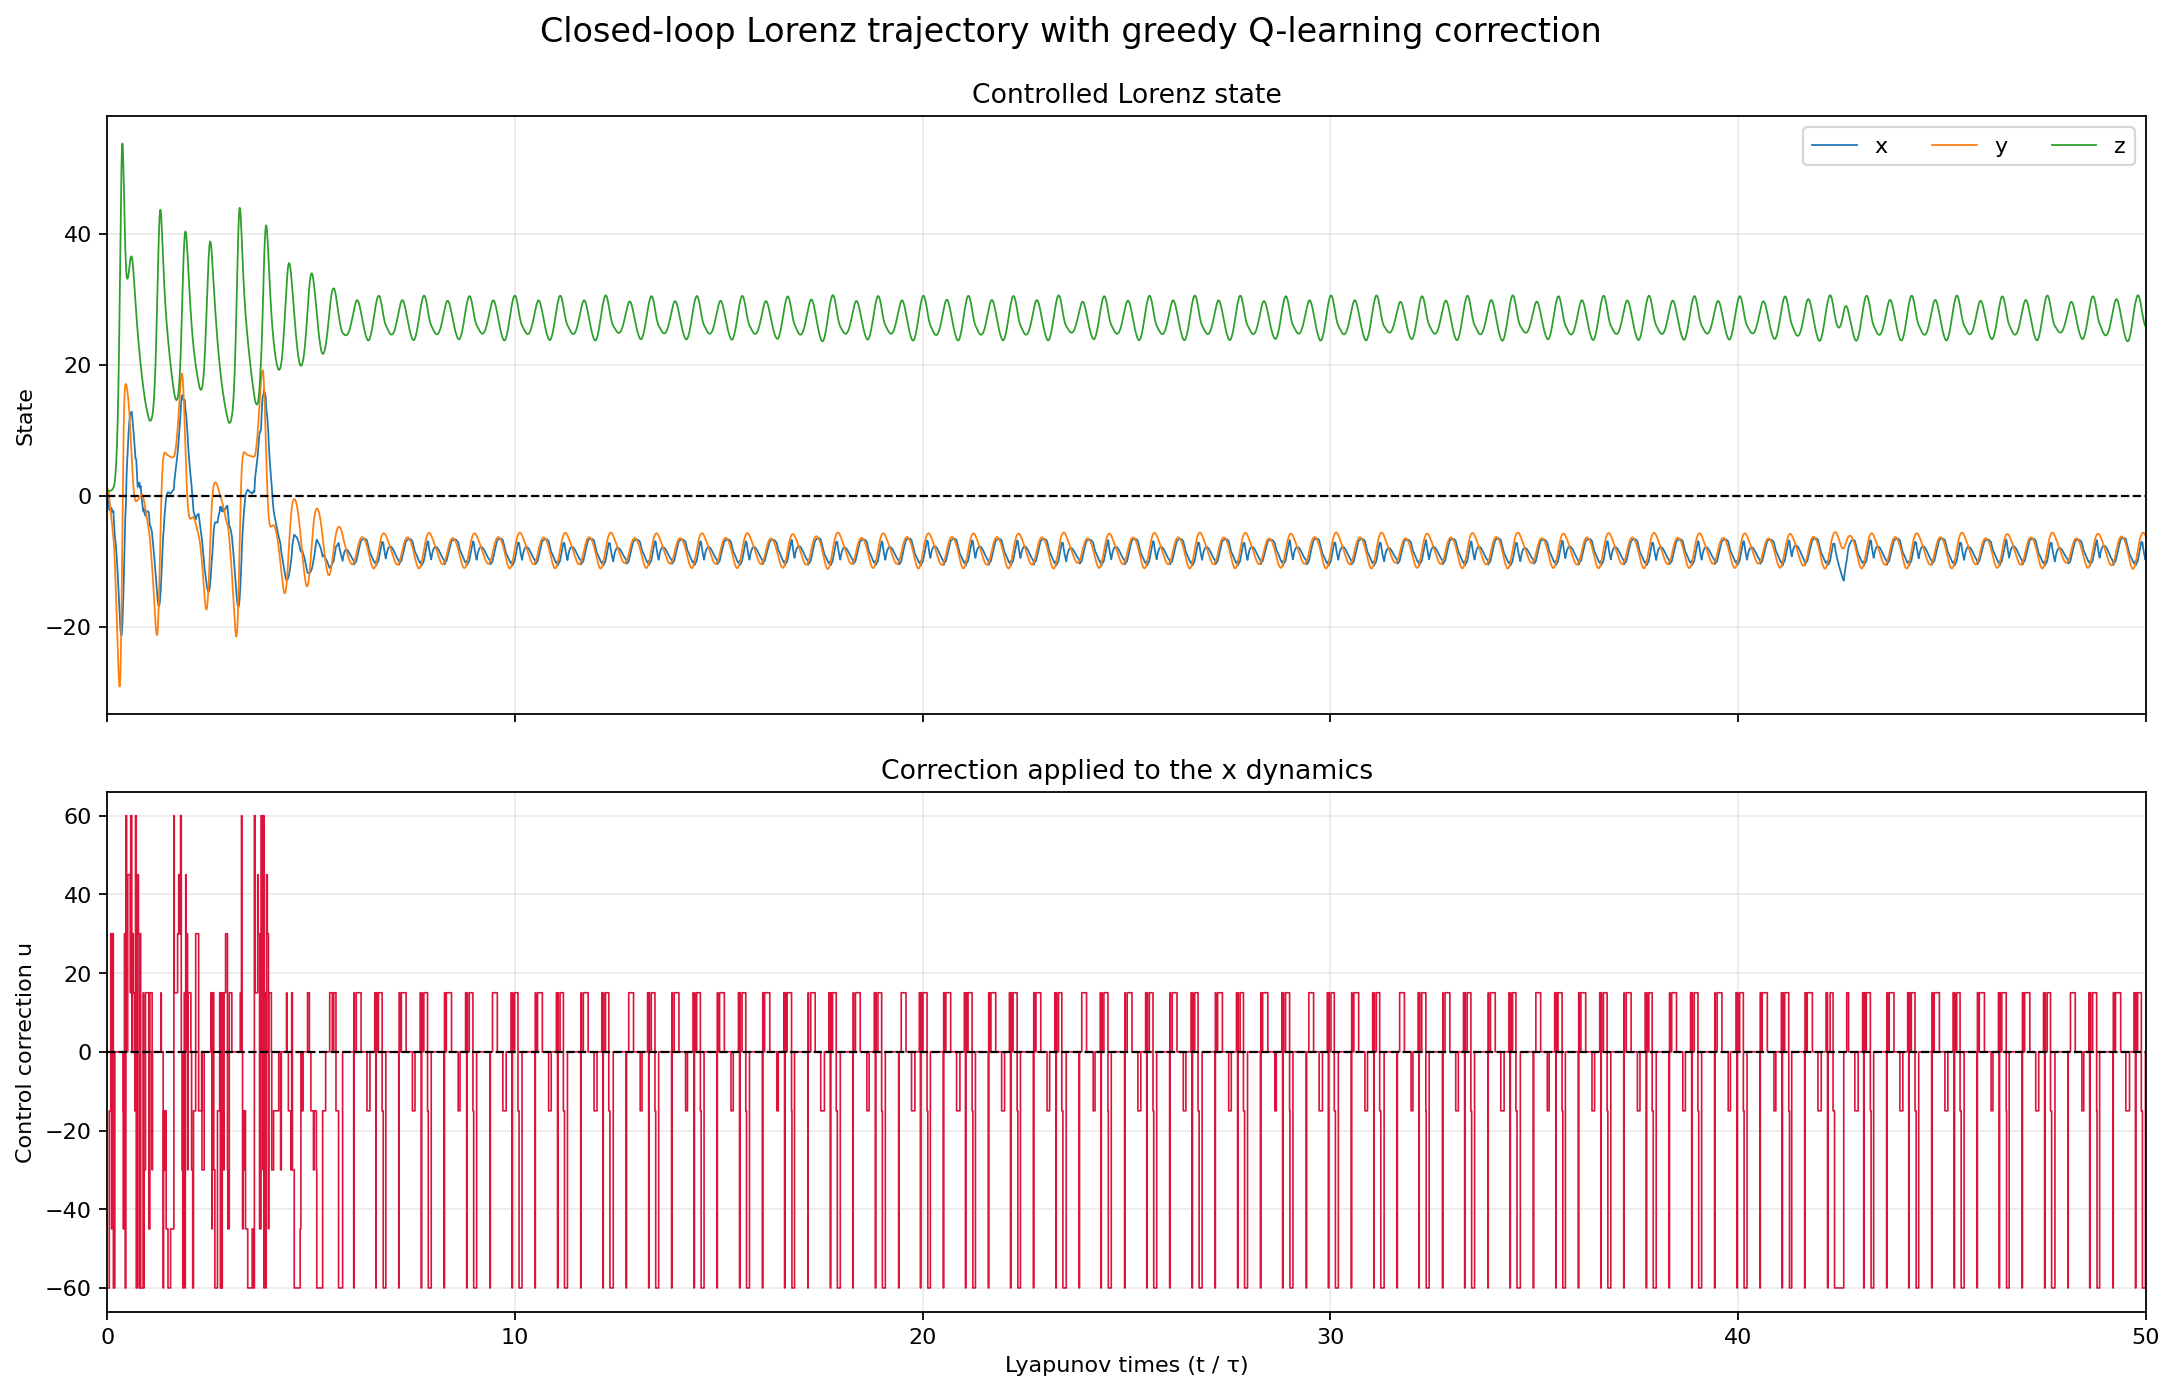
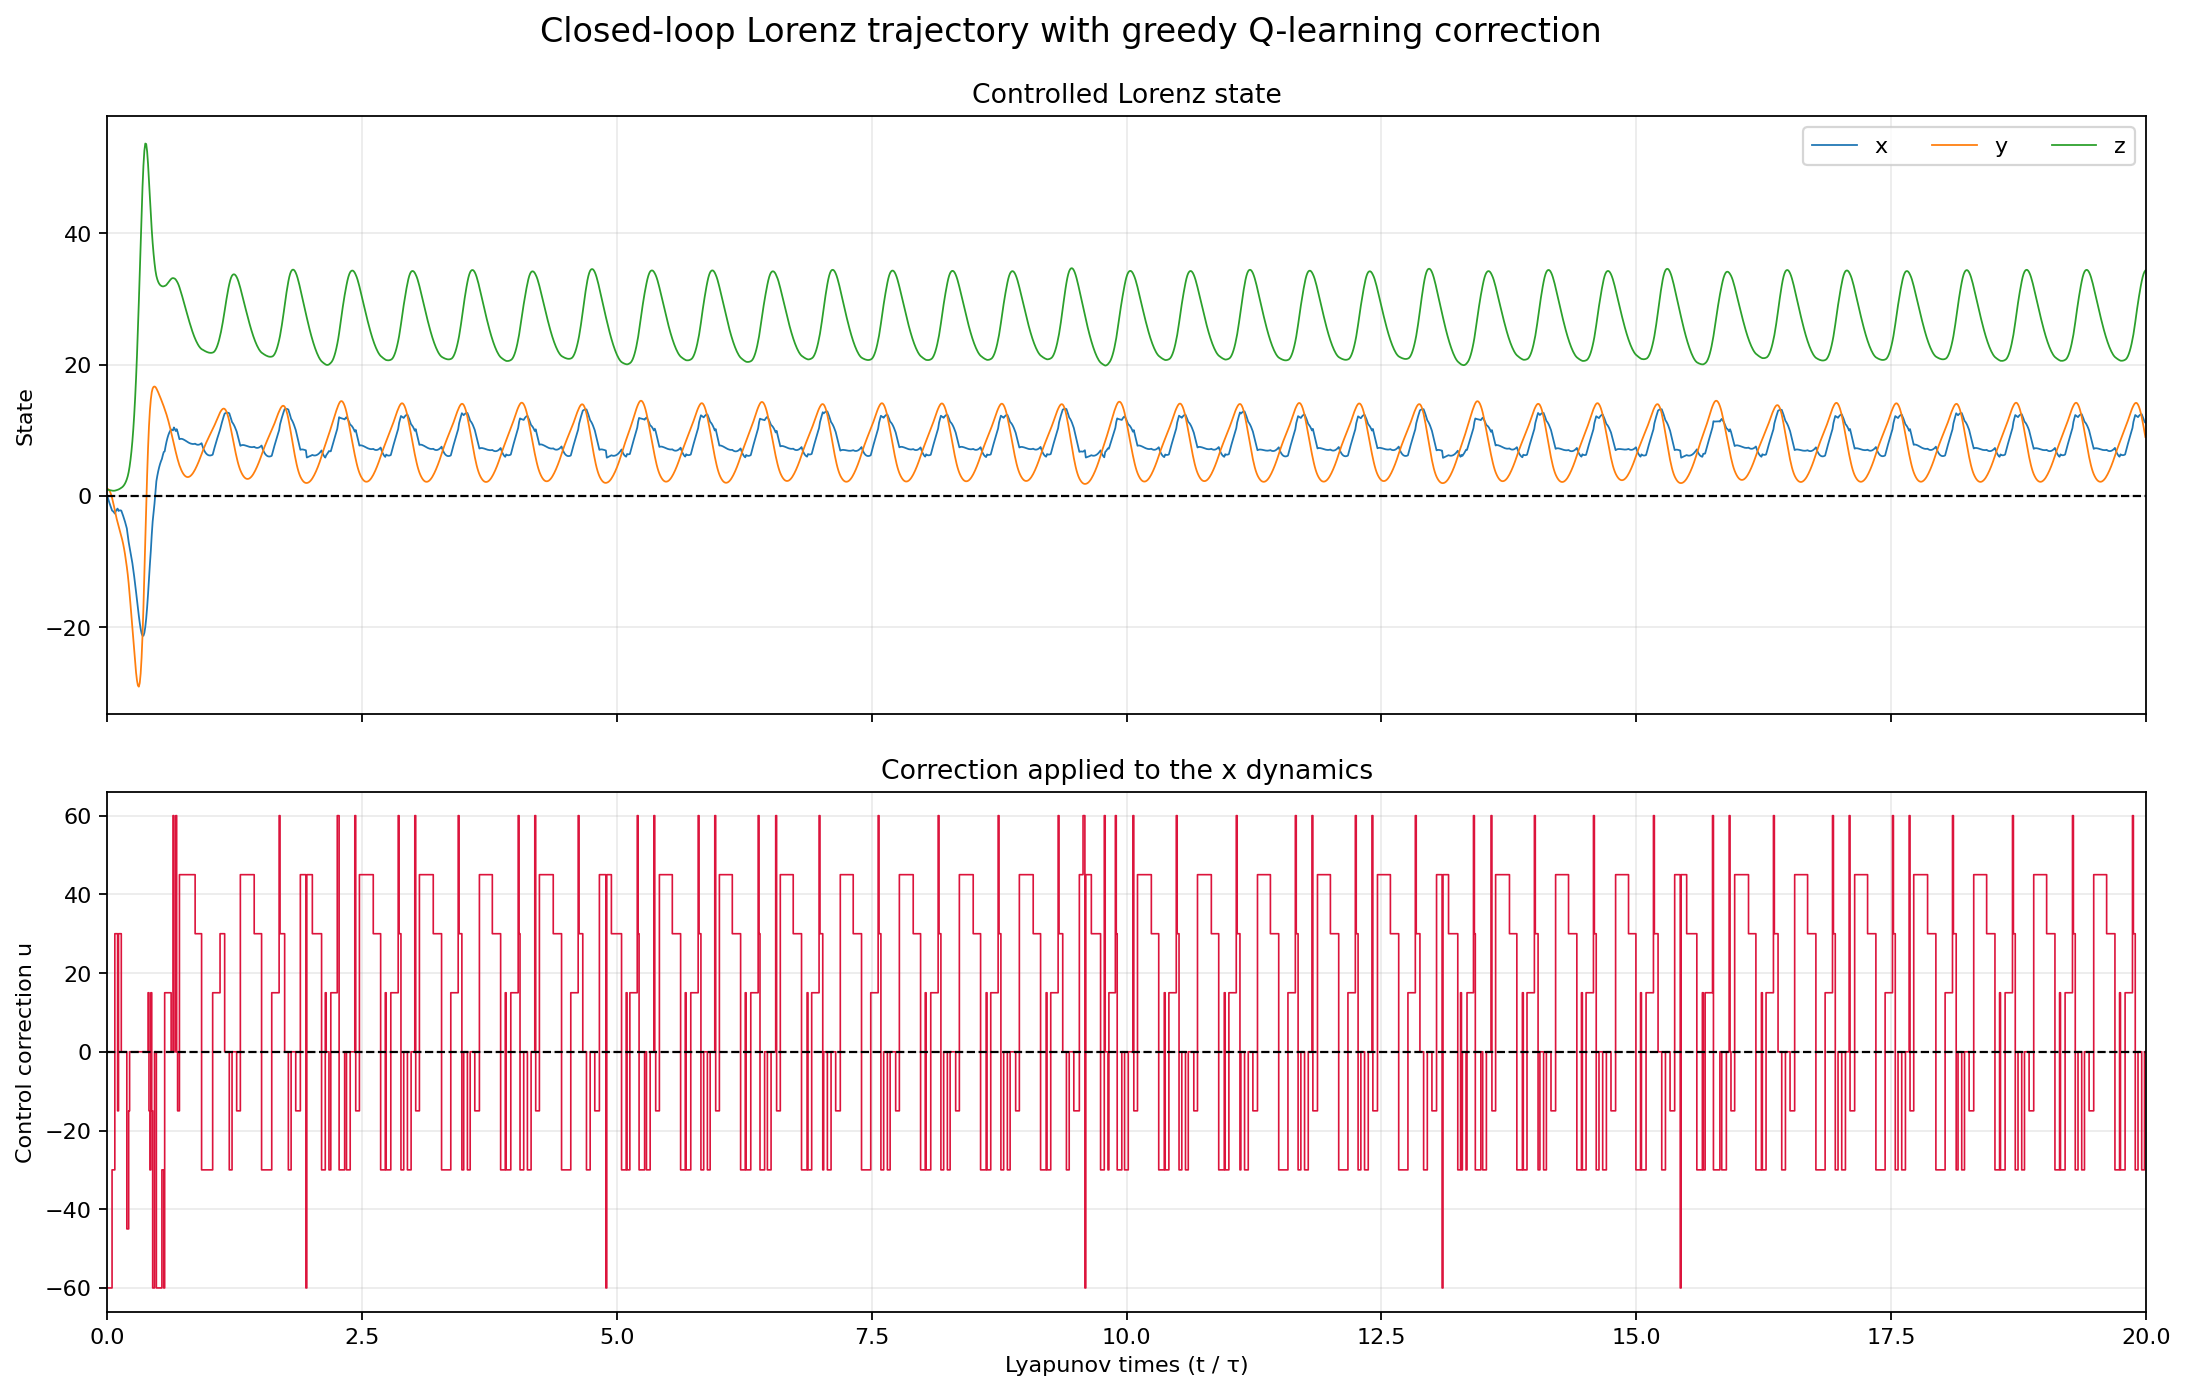
Add uncontrolled Lorenz evaluation baseline

diff --git a/Pytorch/Chaos Research/Q-Learning/PlotQLearning.py b/Pytorch/Chaos Research/Q-Learning/PlotQLearning.py
@@ -71,6 +71,28 @@ def _lyapunov_time_axis(number_of_steps: int) -> np.ndarray:
     )
 
 
+def evaluate_uncontrolled_lorenz(
+    env: Any,
+    initial_state: Sequence[float],
+    max_steps: int | None = None,
+) -> np.ndarray:
+    """Evaluate the imported Lorenz environment with zero control."""
+    if env.action_type != "continuous":
+        raise ValueError("The uncontrolled baseline requires a continuous-action env")
+    if not env.action_low <= 0.0 <= env.action_high:
+        raise ValueError("The uncontrolled baseline environment must permit u=0")
+
+    state = env.reset(x0=np.asarray(initial_state, dtype=np.float64))
+    trajectory = [state.copy()]
+    done = False
+    steps = 0
+    while not done and (max_steps is None or steps < max_steps):
+        state, _, done, _ = env.step(0.0)
+        trajectory.append(state.copy())
+        steps += 1
+    return np.asarray(trajectory, dtype=np.float64)
+
+
 def _finish_figure(
     figure: Figure,
     output_path: Path | None,
@@ -186,6 +208,41 @@ def plot_training_diagnostics(
     distribution_axis.grid(axis="y", alpha=0.25)
     distribution_axis.legend()
 
+    _finish_figure(figure, output_path, show=show, dpi=dpi)
+
+
+def plot_uncontrolled_lorenz(
+    trajectory: np.ndarray,
+    output_path: Path | None,
+    *,
+    show: bool = False,
+    dpi: int = 160,
+) -> None:
+    """Plot a zero-control trajectory produced by ``LorenzEnvEuler``."""
+    points = np.asarray(trajectory, dtype=np.float64)
+    if points.ndim != 2 or points.shape[1] != 3 or points.shape[0] < 2:
+        raise ValueError("Uncontrolled trajectory must have shape (n, 3), n >= 2")
+
+    duration = steps_to_lyapunov_times(points.shape[0] - 1)
+    figure = plt.figure(figsize=(10, 8))
+    axis = figure.add_subplot(111, projection="3d")
+    axis.plot(
+        points[:, 0],
+        points[:, 1],
+        points[:, 2],
+        color="tab:blue",
+        linewidth=0.5,
+        alpha=0.85,
+    )
+    axis.scatter(*points[0], color="tab:green", s=35, label="Start", depthshade=False)
+    axis.scatter(*points[-1], color="tab:red", s=35, label="End", depthshade=False)
+    axis.set_xlabel("X Axis")
+    axis.set_ylabel("Y Axis")
+    axis.set_zlabel("Z Axis")
+    axis.set_title(
+        f"Uncontrolled Lorenz trajectory (u = 0, {duration:.1f} Lyapunov times)"
+    )
+    axis.legend()
     _finish_figure(figure, output_path, show=show, dpi=dpi)
 
 
@@ -772,10 +829,37 @@ def main() -> None:
     if not np.array_equal(table_before_evaluation, agent.q_table):
         raise RuntimeError("Greedy evaluation unexpectedly changed the Q-table")
 
+    controlled_trajectories = evaluation["trajectories"]
+    if len(controlled_trajectories) == 0:
+        raise RuntimeError("Evaluation returned no trajectory for baseline comparison")
+    baseline_initial_state = np.asarray(
+        controlled_trajectories[0][0],
+        dtype=np.float64,
+    )
+    uncontrolled_env = LorenzEnvEuler(
+        alpha=args.control_cost,
+        lyapunov_times=args.eval_lyapunov_times,
+        action_type="continuous",
+        action_bounds=(-qlearning.U_REF, qlearning.U_REF),
+        regularized=False,
+        u_ref=qlearning.U_REF,
+    )
+    uncontrolled_trajectory = evaluate_uncontrolled_lorenz(
+        uncontrolled_env,
+        baseline_initial_state.tolist(),
+        args.eval_max_steps,
+    )
+
     output_dir = None if args.no_save else args.output_dir.expanduser().resolve()
     plot_training_diagnostics(
         history,
         None if output_dir is None else output_dir / "training_diagnostics.png",
+        show=args.show,
+        dpi=args.dpi,
+    )
+    plot_uncontrolled_lorenz(
+        uncontrolled_trajectory,
+        None if output_dir is None else output_dir / "evaluation_uncontrolled_lorenz.png",
         show=args.show,
         dpi=args.dpi,
     )

diff --git a/Pytorch/Chaos Research/Q-Learning/QLearning.py b/Pytorch/Chaos Research/Q-Learning/QLearning.py
@@ -60,11 +60,11 @@ class ExperimentDefaults:
     eval_max_steps: Optional[int] = None
 
     # Reproducibility
-    seed: int = 7
+    seed: int = 2
 
     # Simulation duration
     training_lyapunov_times: float = 2.0
-    evaluation_lyapunov_times: float = 50.0
+    evaluation_lyapunov_times: float = 20.0
 
     # Control settings
     control_cost: float = LAMBDA
@@ -79,7 +79,7 @@ class ExperimentDefaults:
     # Q-learning hyperparameters
     learning_rate: float = 0.01
     discount_factor: float = 1.0
-    epsilon: float = 1.0
+    epsilon: float = 0.99
     epsilon_decay: float = 0.05
     epsilon_min: float = 0.05
 
